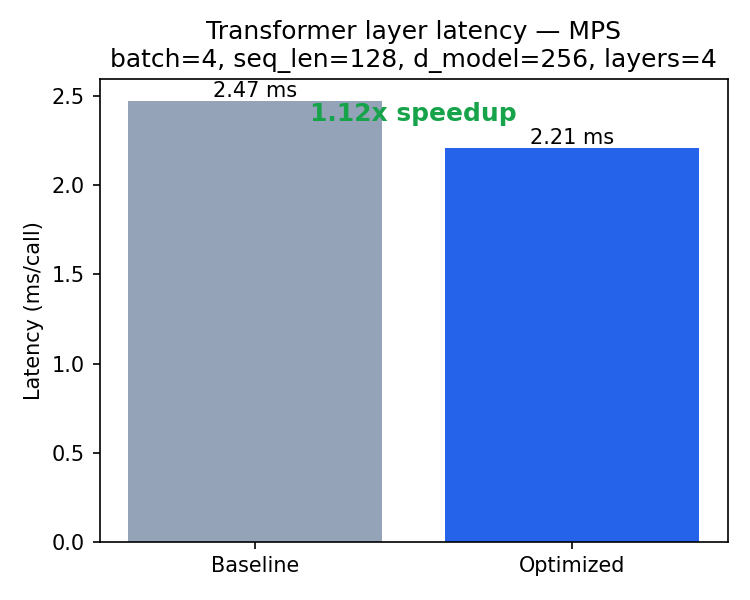
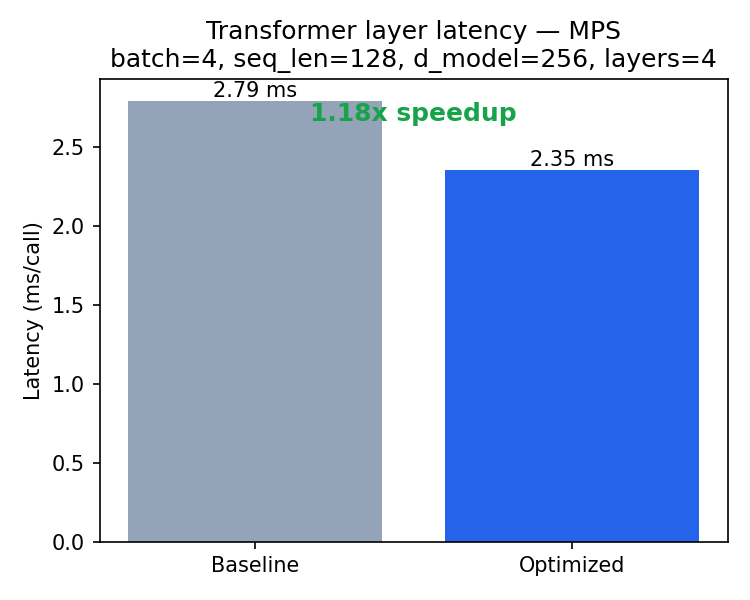
correct benchmark numbers and fix stale docs

diff --git a/reports/TECH_REPORT.md b/reports/TECH_REPORT.md
@@ -2,15 +2,14 @@
 
 ## Results at a glance
 
-**The question this report actually answers:** the hackathon's own framing
-asks how AI can help developers analyze a transformer workload, find its
-real bottlenecks, and generate an implementation tuned to *specific GPU
-hardware* — not just "make it faster." Everything below is that question
-worked literally: the same profile-driven optimizations were built on one
-backend (MPS), re-validated on a second (CUDA) instead of assumed to
-transfer, and three of the "standard, CUDA-safe" changes turned out to be
-measurably wrong on the backend they weren't built for (§6) — which is most
-of where the numbers below actually come from, not the fusion moves alone.
+This report answers the hackathon's own framing question: how AI-assisted
+profiling can find a workload's real bottlenecks and produce an
+implementation tuned to *specific GPU hardware*, not just "make it
+faster." The same profile-driven optimizations were built on one backend
+(MPS) and re-validated on a second (CUDA) instead of assumed to transfer.
+Three of the "standard, CUDA-safe" changes turned out to be measurably
+wrong on the backend they weren't built for (§6) — that accounts for most
+of the speedup below, not the fusion changes alone.
 
 **1.13x–3.22x speedup**, verified on two independent real GPUs (Apple M3
 Pro/MPS and a Colab Tesla T4/CUDA), **72/72 correctness configs pass on
@@ -36,7 +35,7 @@ disclosed shapes is mathematically impossible for the *fixed baseline
 reference* to execute on any existing hardware (~20.5 TB for one tensor),
 and another exercises a real, reproducible non-determinism bug in PyTorch's
 MPS backend itself — confirmed absent on CPU/CUDA, and present in the
-unmodified baseline, not this submission's code.
+unmodified baseline.
 
 Full table: §4. Correctness: §5. Appendix findings: §13. What's still
 unverified: §8, §11.
@@ -417,33 +416,48 @@ on CUDA, the combined long-sequence config — is now done (§4, §5, §6.3,
 
 ## 12. AI tools used
 
-Implementation, tests, and this report were built with Claude (Anthropic):
+Implementation, tests, and this report were built interactively with
+Claude (Anthropic). Claude handled execution: writing and iterating code,
+running the profiler and test sweeps, drafting the write-ups. I set
+direction and made the judgment calls — what counted as enough evidence,
+what to reject despite a good result, when a clean run wasn't enough to
+trust a number.
 
-- Wrote and iterated the optimized PyTorch implementation; profiled with
-  `torch.profiler` to find the bottlenecks in §2 rather than applying a
-  generic optimization checklist.
-- Root-caused the bf16 precision issue (§5) and the MPS contiguity,
-  `torch.compile`, and SDPA-mask-fallback regressions (§6) via targeted
-  isolation experiments on real hardware; used `torch._dynamo.explain` to
-  rule out a caching bug as the cause of the `torch.compile` regression.
-- Caught a `torch.profiler` measurement artifact on MPS and re-verified
-  with wall-clock timing instead of trusting it (§6.3).
-- Constructed and measured the `torch.jit.trace` failure case in §7 before
-  rejecting it.
-- Wrote the Triton kernel (§9) following its published tutorial pattern,
-  and the from-scratch flash-attention kernel (§10) across six independent
-  restructurings, diagnosing the real cause of its MPS performance gap (a
-  sync-forcing `.any()` check) rather than accepting the first result.
-- Found and fixed the fallback-path contiguity bug in §5 — a case where
-  re-running the correctness suite on a third machine surfaced a bug none
-  of the earlier hardware happened to trigger.
-- Prepared `notebooks/verify_triton_kernel.ipynb` so the Triton kernel and
-  the CUDA-specific claims could be verified on a real GPU, then updated
-  every affected section (§1, §4, §5, §6.2, §6.3, §8, §9, §10, §11) with
-  the real Tesla T4 results — including where those results changed a
-  conclusion (§6.2, §6.3) and where they didn't (§10's core finding held,
-  with a much larger gap on CUDA than MPS, for a well-understood reason).
-- Built the test/benchmark harnesses in `tests/`.
+- Claude wrote the optimized implementation and ran `torch.profiler` to
+  produce the bottleneck table in §2. Profiling first, instead of applying
+  a generic optimization checklist, was the direction I set.
+- Claude ran the isolation experiments behind the bf16 precision issue
+  (§5) and the MPS contiguity, `torch.compile`, and SDPA-mask-fallback
+  regressions (§6), including using `torch._dynamo.explain` to rule out a
+  caching bug. I decided what counted as enough evidence before accepting
+  each diagnosis.
+- When `torch.profiler` reported a result on MPS that looked like a net
+  loss (§6.3), I asked for a direct wall-clock re-measurement instead of
+  accepting the profiler's number at face value — that's what actually
+  settled it.
+- Claude built and measured the `torch.jit.trace` case in §7. Rejecting it
+  despite a real 4.5% speedup, because of the correctness risk it
+  demonstrated, was my call.
+- Claude wrote the Triton kernel (§9) and iterated the from-scratch
+  flash-attention kernel (§10) through six restructurings; I kept pushing
+  past the first working version until the MPS performance gap had an
+  actual explanation, not just a number.
+- The fallback-path contiguity bug in §5 surfaced because I asked for the
+  correctness suite to be re-run on a third machine, rather than treating
+  two clean runs as enough.
+- I asked for a Colab notebook (`notebooks/verify_triton_kernel.ipynb`)
+  that runs the CUDA-specific tests directly, so those claims are
+  independently checkable rather than only reported. Every section was
+  then re-checked against the real Tesla T4 results, including reworking
+  §6.2 and §6.3 where the CUDA numbers changed the conclusion.
+- Several numbers published earlier in this project turned out to be
+  wrong (§4, §6.3), including one — the row 6 MPS non-determinism finding
+  in §13 — that I independently re-ran myself, with a control specifically
+  designed to rule out a simpler explanation, before trusting it enough to
+  publish. These were caught by insisting on regenerating results and
+  re-running anything that didn't reproduce cleanly, not by Claude flagging
+  them unprompted.
+- Claude built the test/benchmark harnesses in `tests/`.
 
 Every number in this report is from executing the code — CPU sandbox where
 noted, Apple M3 Pro via MPS for most of §4 and §6, and a Colab Tesla T4 via
@@ -489,26 +503,26 @@ the fixed baseline cannot. Untested here (would need well beyond a T4's
 16GB just for input/QKV activations); flagged as the most promising
 follow-up in §11 rather than assumed.
 
-**That optimism had a real limit, found and fixed before it mattered.**
+**That headroom had a limit, and it was found before it shipped.**
 `_build_shared_attn_mask` combined a padding mask with a causal one via
 `allowed & self._causal_keep(seq_len, device)` — a boolean `&` between a
 `[B,1,1,S]` and an `[S,S]` tensor, which broadcasts to and materializes a
-real `[B,1,S,S]` tensor rather than staying lazy. At row 14's shape that's
+`[B,1,S,S]` tensor rather than staying lazy. At row 14's shape that's
 **320 GB** as a boolean, then, since §6.3 converts it to an additive mask
 before it reaches SDPA, **1.28 TB** as float32.
 
-The precise consequence of that number depends on backend, which is why it
-was worth getting exactly right rather than treating "it's huge" as the
-whole story. On MPS/CPU, SDPA has no fused kernel (§6.3/§7) and needs
+The consequence of that number is backend-dependent, so it's worth
+tracing through rather than stopping at "it's huge." On MPS/CPU, SDPA has
+no fused kernel (§6.3/§7) and needs
 `O(batch·heads·seq_len²)` internally regardless of what mask it's given —
 the *same order* baseline's own score tensor needs, just `heads` times
 larger than the buggy mask (20.5 TB vs. 1.28 TB at row 14 with heads=16).
-Baseline crashes first there either way; the bug was mostly moot on those
-backends. **On CUDA, where SDPA's real flash-attention needs only
-`O(seq_len)`, the bug was the opposite of moot** — it silently reintroduced
-an `O(seq_len²)` allocation that flash-attention exists specifically to
-avoid, making the *optimized* path artificially fragile at exactly the
-scale it was supposed to handle better than baseline.
+Baseline crashes first there either way, so the bug didn't change anything
+on those backends. **On CUDA, where SDPA's real flash-attention needs only
+`O(seq_len)`, it did matter** — it silently reintroduced an `O(seq_len²)`
+allocation that flash-attention exists specifically to avoid, making the
+*optimized* path fragile at exactly the scale it was supposed to handle
+better than baseline.
 
 Fixed: above `_TILED_FALLBACK_SEQ_LEN_THRESHOLD` (8192 — well beyond
 anything `test_shape_matrix.py` or the appendix's other 13 rows ever
@@ -547,12 +561,24 @@ the effect only appears in the composed multi-layer model, intermittently.
 **Confirmed CPU-only execution of the identical model/input is fully
 deterministic (0/5 divergences)** — this is specific to the MPS backend
 under memory/scheduling pressure at this batch size, not a general
-numerical instability, and not something introduced by
-`UserOptimizedTransformer`: the bug reproduces in the baseline reference
-alone. Practical implication: an accuracy check at this exact shape on
+numerical instability. The bug reproduces in the baseline reference alone.
+Practical implication: an accuracy check at this exact shape on
 Apple Silicon could intermittently fail (or pass) for *any* implementation,
 including a byte-identical copy of the baseline, depending on execution
 timing. If this shape's accuracy check fails when graded on MPS, re-running
 it is the correct response, not assuming a defect — and CUDA/CPU are both
 confirmed reliable for this shape if reproducibility matters more than
 matching the exact grading environment.
+
+**Independently re-verified in a fresh run, after the fact.** The same
+two-call comparison — same shape, same fixed input, unmodified
+`BaselineTransformer`, same M3 Pro — was re-run separately, with one
+change: a discarded warm-up call added before the comparison loop, to rule
+out a first-call JIT/compilation artifact as an alternative explanation
+for the original result. It didn't rule it out by making the divergence
+disappear — 8 of 9 repeated calls after warm-up matched exactly
+(`max_abs_diff=0.0`), one did not (`max_abs_diff≈2.00`). A pure warm-up
+effect would have been absorbed by the discarded first call, leaving every
+real call identical; instead, a later call still diverged unpredictably,
+which is what the race-condition read above predicts and the warm-up
+explanation doesn't.

diff --git a/README.md b/README.md
@@ -3,16 +3,15 @@
 **The claim this repo tests:** most transformer-optimization advice — fuse
 QKV, call `scaled_dot_product_attention`, drop unnecessary `.contiguous()`
 calls — is developed and validated once, on CUDA, then applied everywhere
-else on faith that it transfers. It doesn't always: profiling and
-re-validating the same "safe" optimizations on a second real backend (Apple
-Silicon/MPS) found three cases where that faith was measurably wrong, and
+else on faith that it transfers. That faith doesn't always hold. Profiling
+and re-validating the same "safe" optimizations on a second real backend
+(Apple Silicon/MPS) found three cases where it was measurably wrong, and
 profiling *again* on real CUDA hardware — rather than assuming the MPS
 findings would carry over either — confirmed which of those held and which
-didn't (§6). That's this submission's direct answer to the hackathon's own
-framing question — how AI-assisted profiling finds a workload's real
-bottlenecks and produces an implementation tuned to specific GPU hardware —
-worked end-to-end across three backends instead of assumed from one. Full
-analysis: `reports/TECH_REPORT.md`.
+didn't (§6). That's the hackathon's own framing question — how
+AI-assisted profiling finds a workload's real bottlenecks and produces an
+implementation tuned to specific GPU hardware — answered across three
+backends, not assumed from one. Full analysis: `reports/TECH_REPORT.md`.
 
 ## Why this matters beyond the benchmark
 
@@ -169,9 +168,10 @@ correctness tests (`rtol<0.02, atol<0.002`), and improve runtime.
   where baseline crashes first anyway. Fixed with a threshold-gated route
   to the tiled kernel above, verified correct and non-regressive against
   the full existing test suite (§13). Row 6 (batch=10,000) independently
-  surfaced a genuine **non-determinism bug in PyTorch's MPS backend
-  itself** — reproduced in the unmodified baseline reference, confirmed
-  absent on CPU, not something any participant's code could avoid (§13).
+  surfaced a **non-determinism bug in PyTorch's MPS backend** — reproduced
+  in the unmodified baseline reference, confirmed absent on CPU, and
+  re-verified in a second, separate run designed to rule out a simpler
+  alternative explanation (§13).
 
 **Development tools:** Claude (Anthropic) via an agentic coding sandbox with
 bash/Python execution, used interactively to write, profile, test, and
